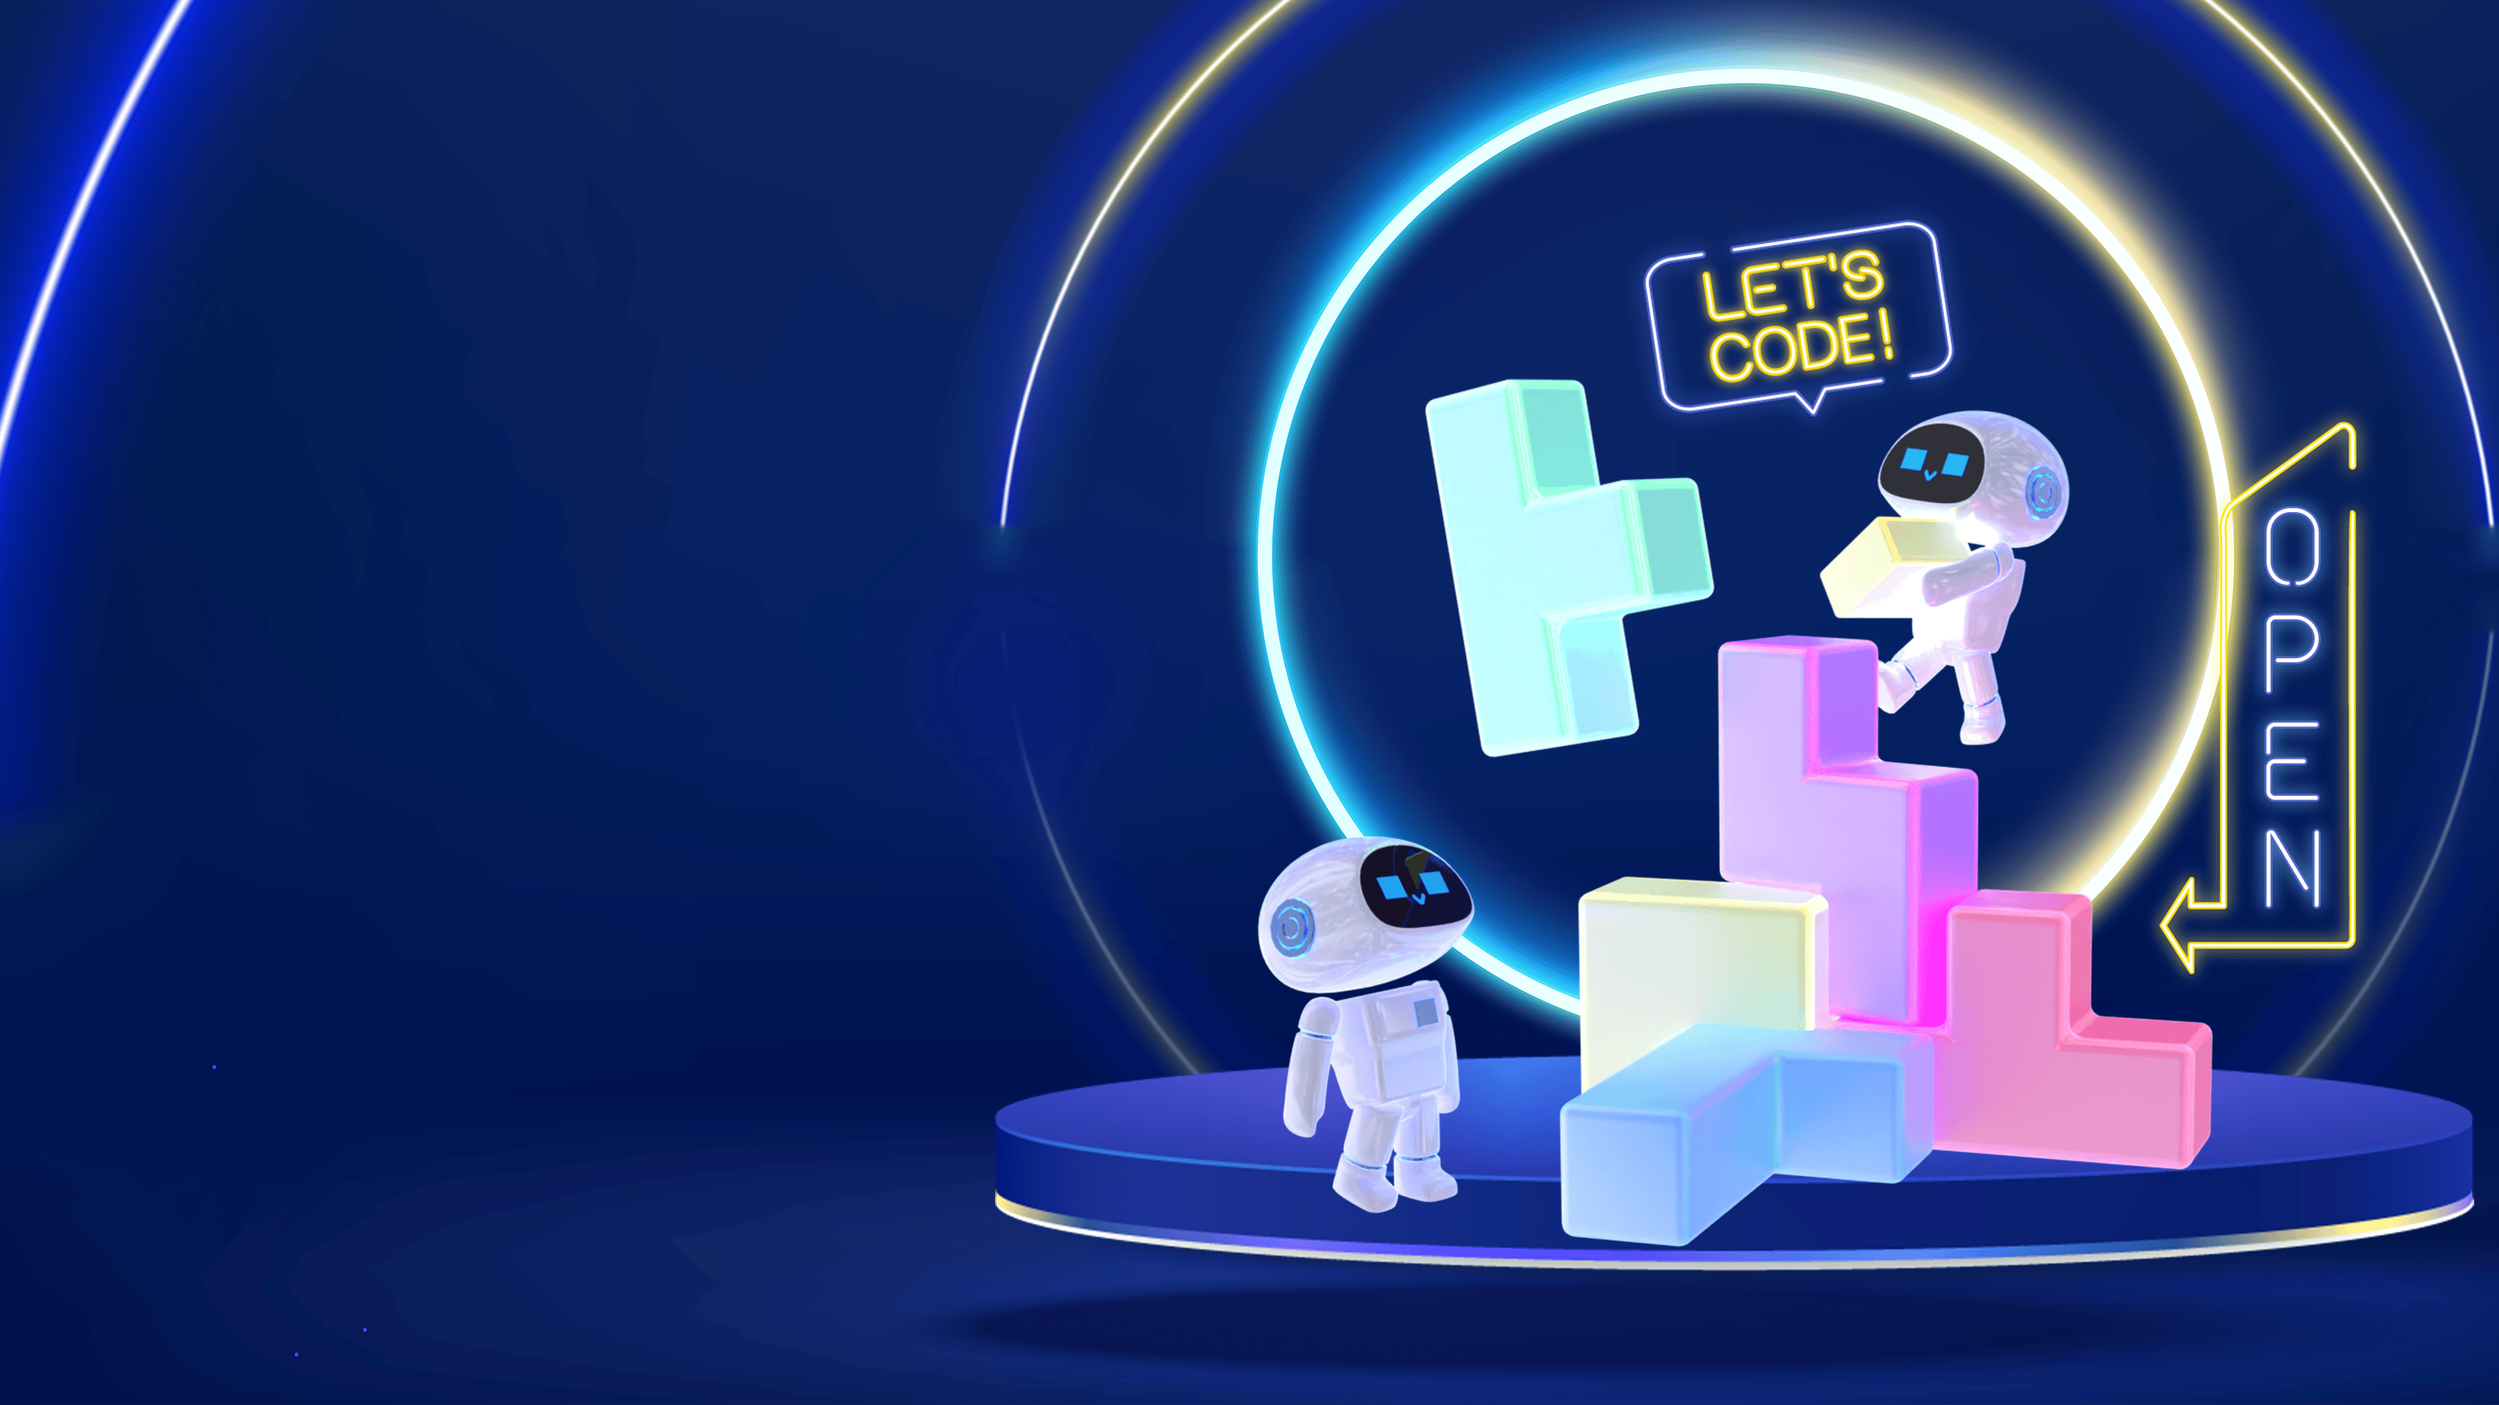
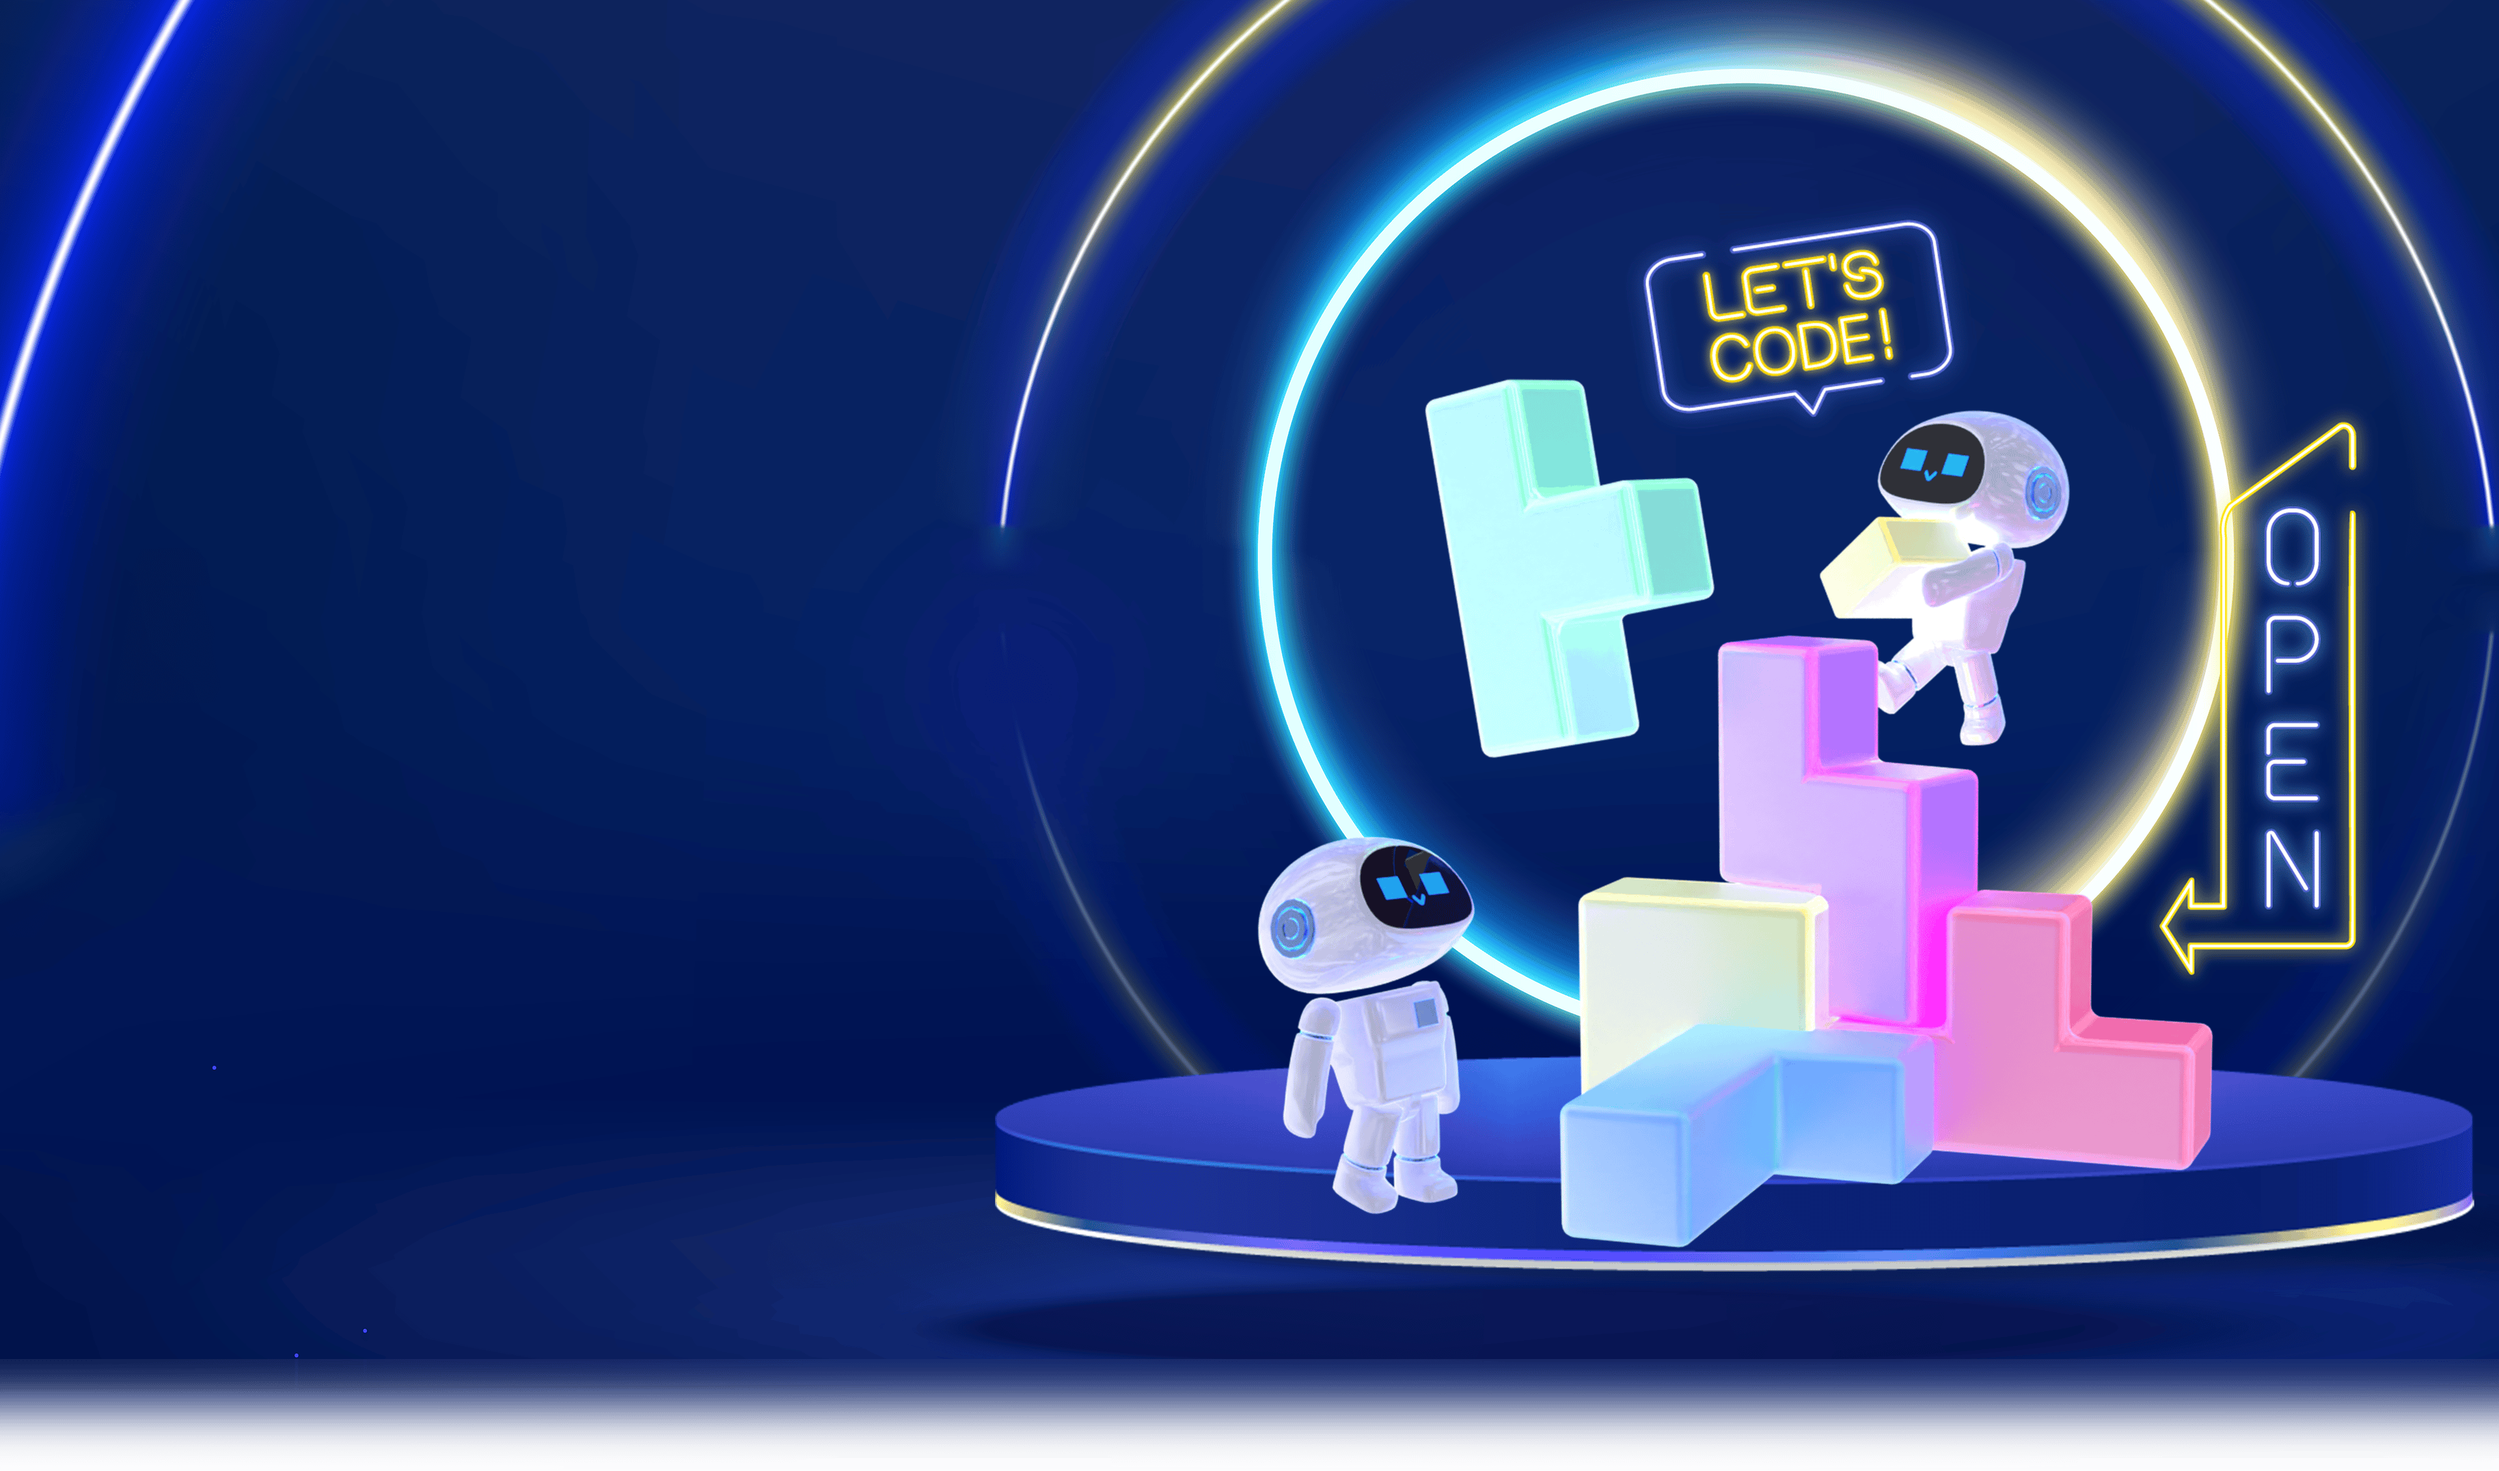
Enhance landing page styling and implement fade-in for hero image

diff --git a/assets/css/out.css b/assets/css/out.css
@@ -3142,7 +3142,7 @@ h4.activity {
   background-size: contain;
   background-repeat: no-repeat;
   background-position-x: 49%;
-  background-position-y: 0;
+  background-position-y: -4vw;
 }
 
 @media (max-width: 1600px) {
